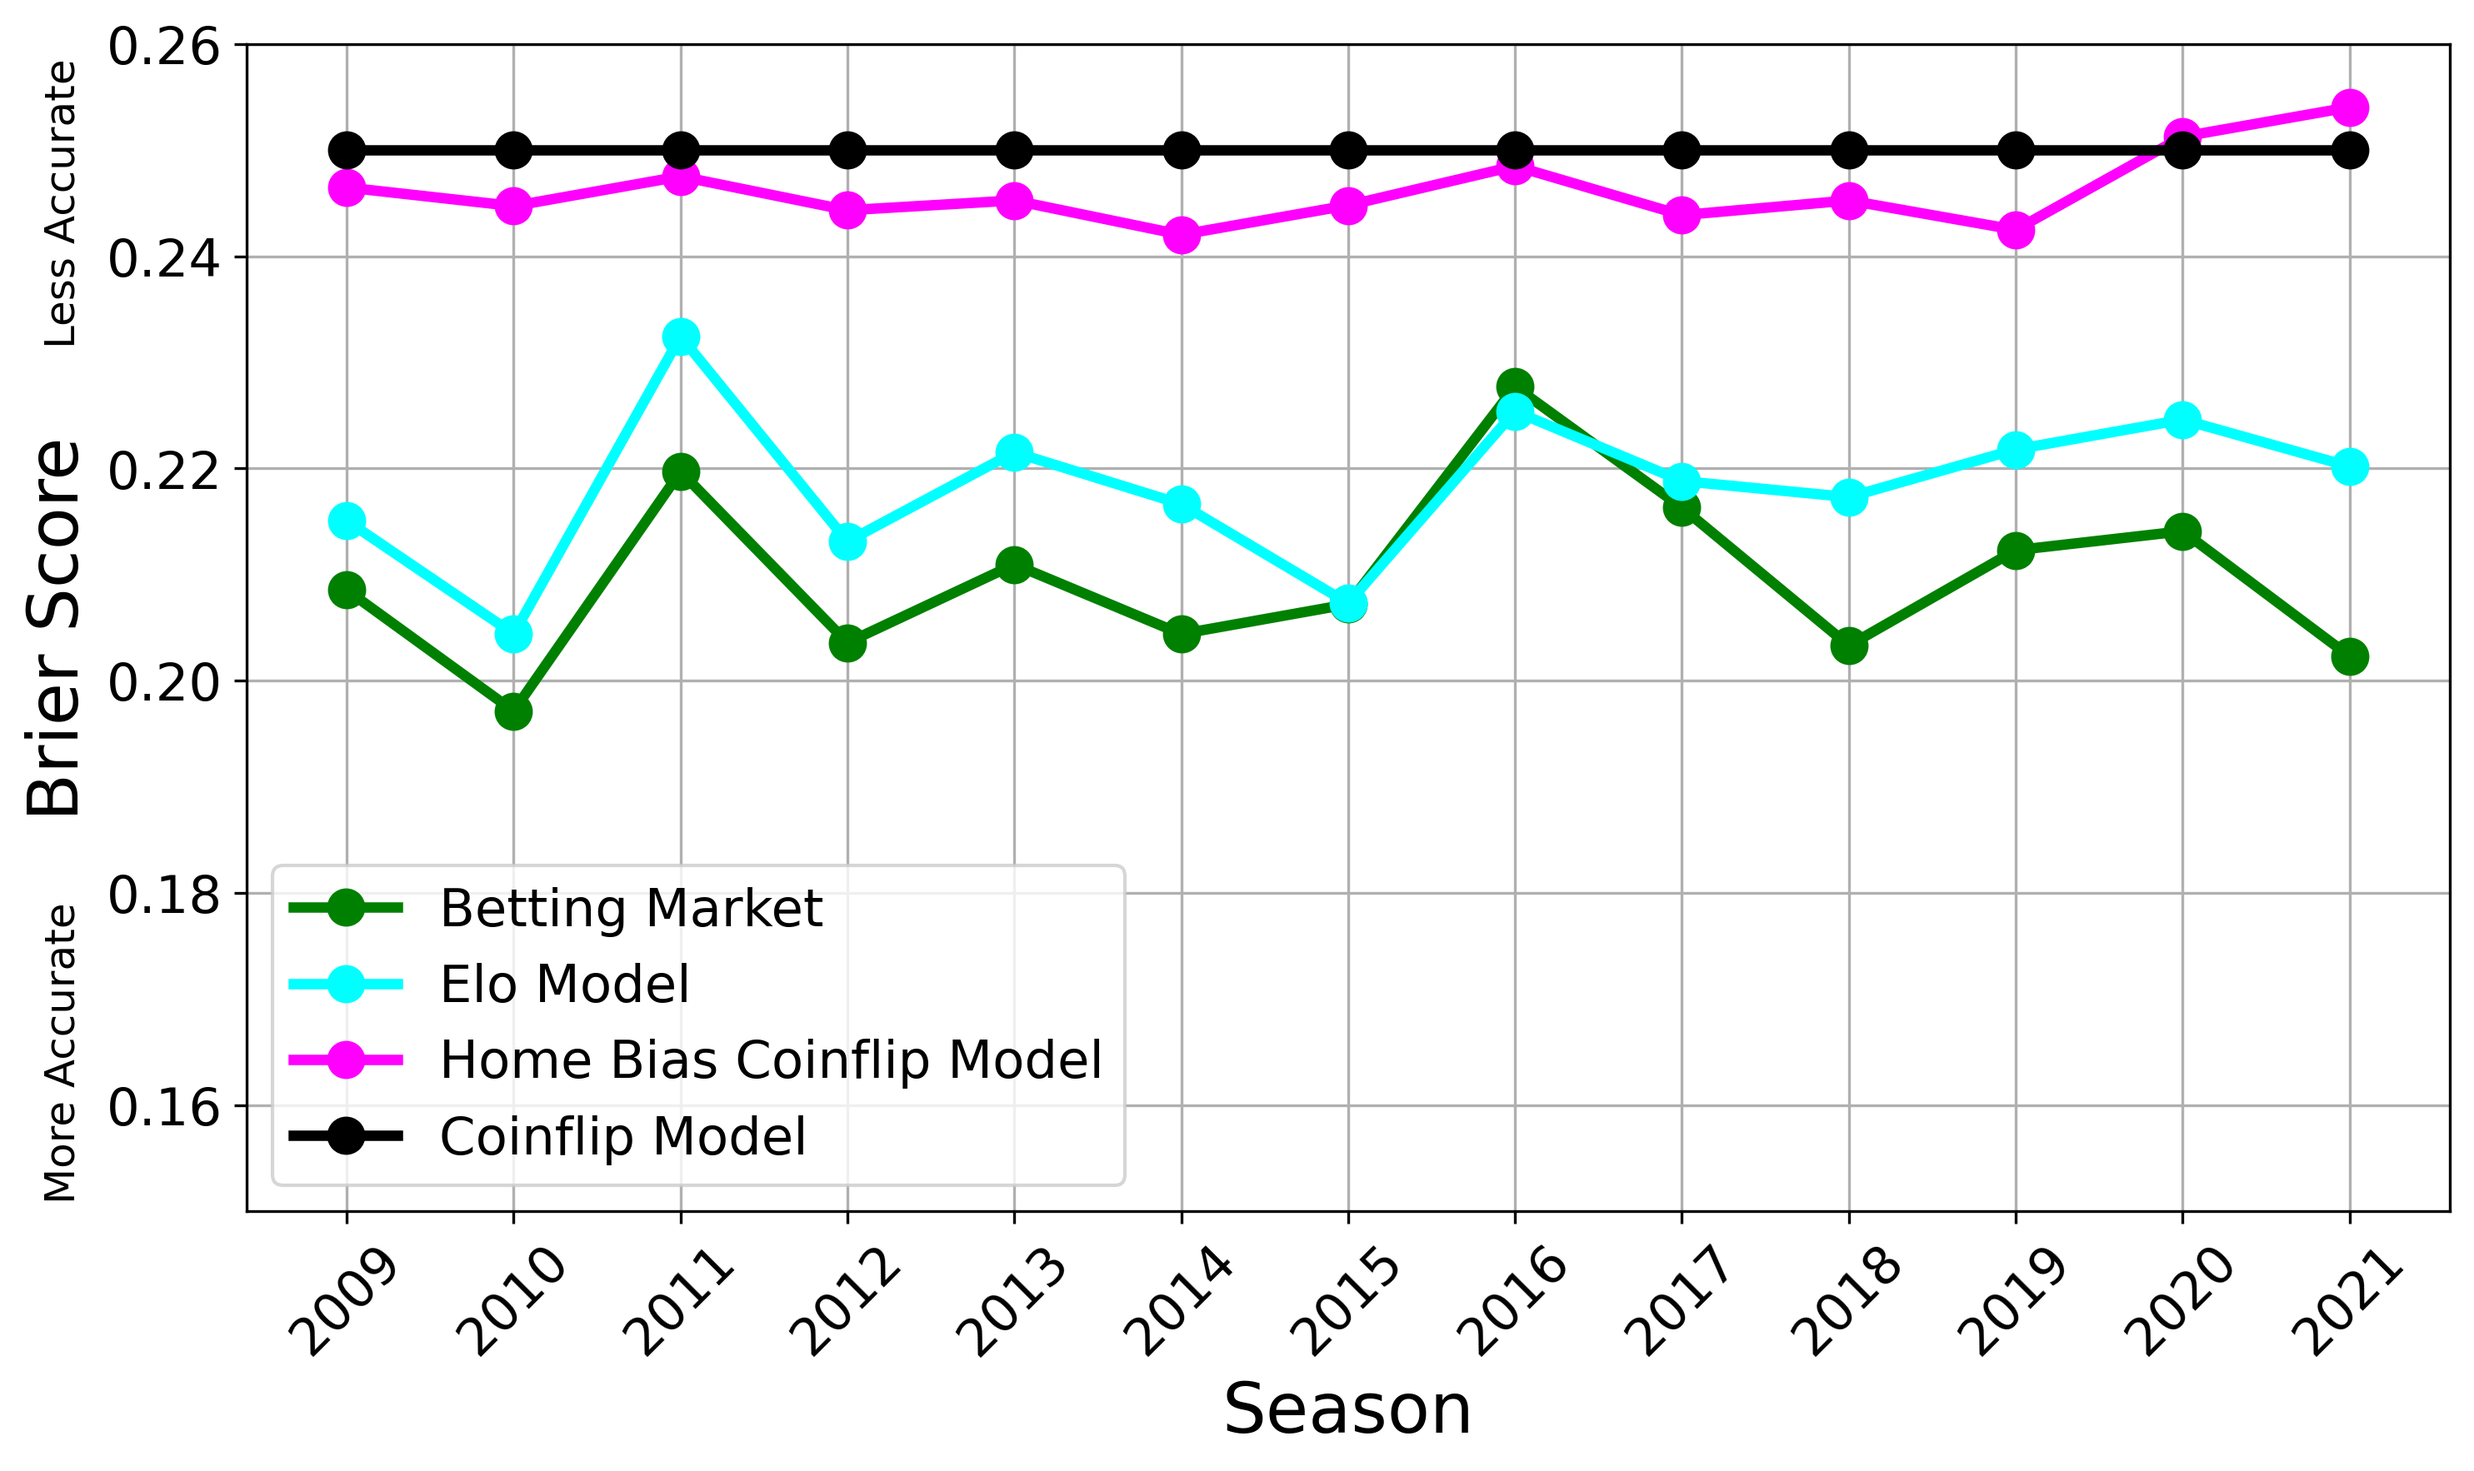
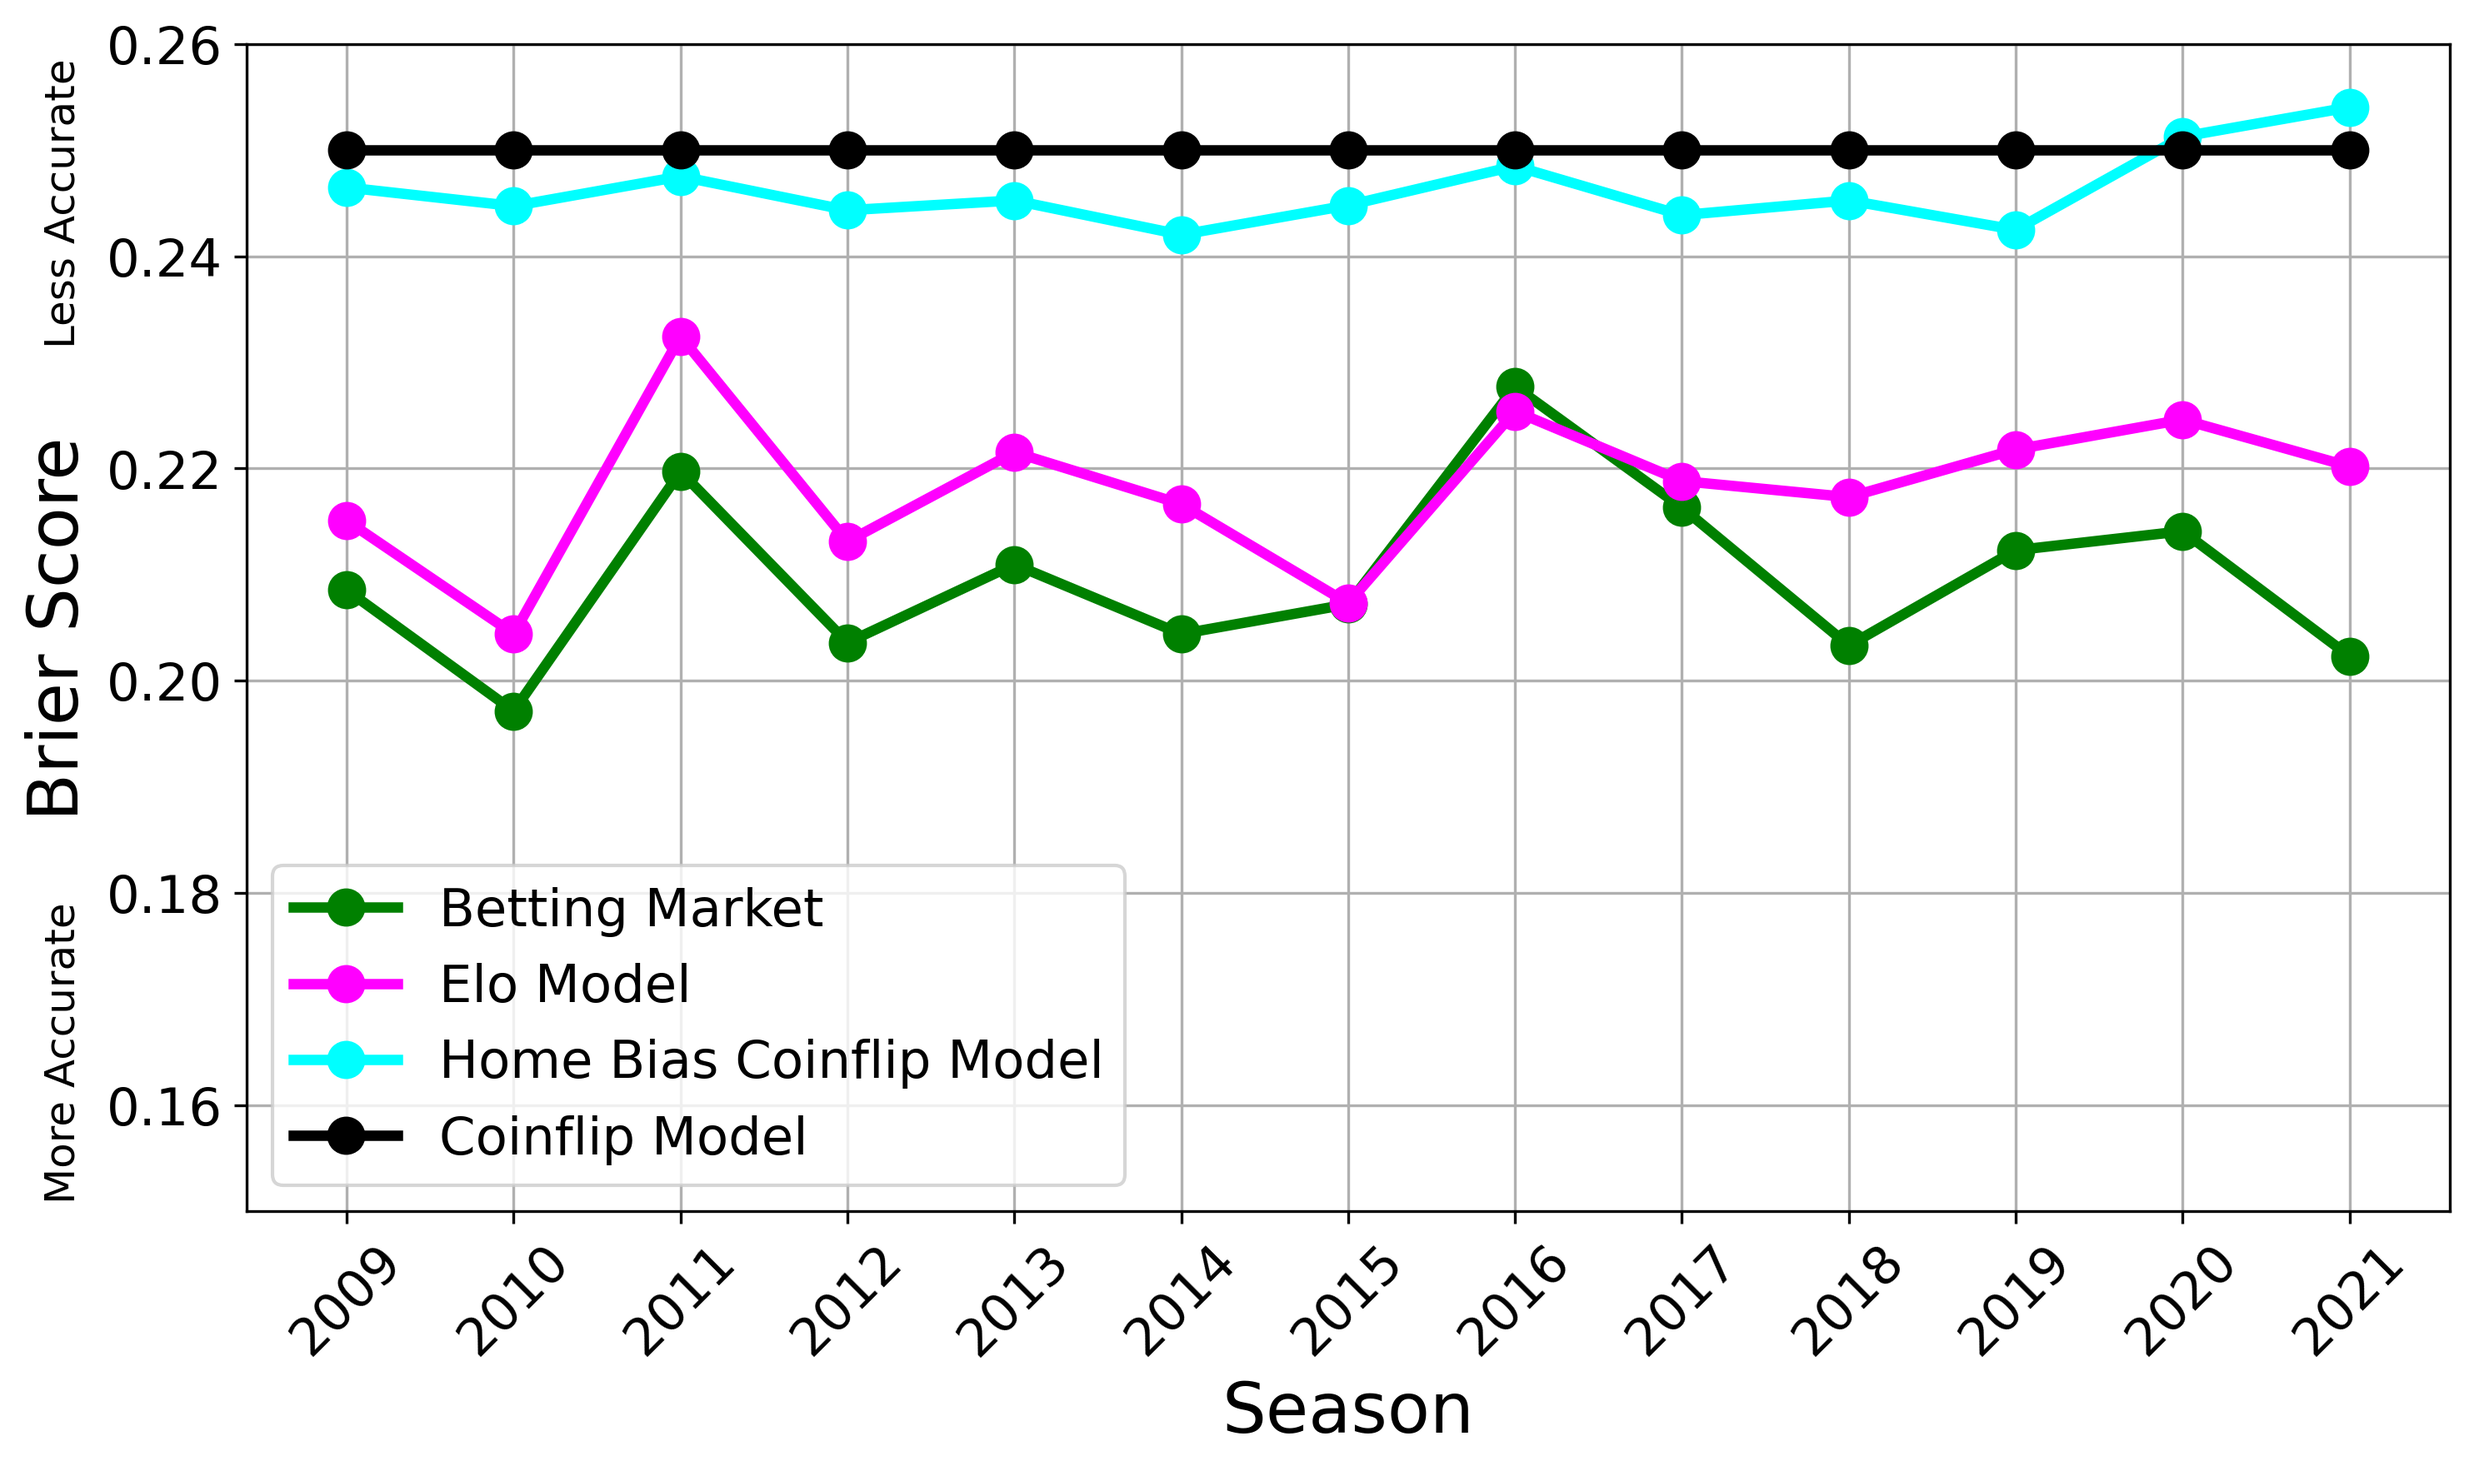
updated figures

diff --git a/src/graphing/nfl_calibration.py b/src/graphing/nfl_calibration.py
@@ -1,0 +1,31 @@
+import pandas as pd
+import matplotlib.pyplot as plt
+from sklearn.calibration import calibration_curve
+
+file_path = "processed_data/nfl_espn_combined_with_elo.csv"
+df = pd.read_csv(file_path)
+
+df = df[df[['avg_prob_1', 'elo_prob_1']].notnull().all(axis=1)]
+
+c1 = df["avg_prob_1"]
+c2 = df["elo_prob_1"]
+actual_results = df["result"]
+
+prob_true1, prob_pred1 = calibration_curve(actual_results, c1, n_bins=10, strategy='uniform')
+prob_true2, prob_pred2 = calibration_curve(actual_results, c2, n_bins=10, strategy='uniform')
+
+plt.figure(figsize=(10, 6))
+plt.plot(prob_pred1, prob_true1, marker='o', label='Betting Market Model', color='green')
+plt.plot(prob_pred2, prob_true2, marker='s', label='Elo Model', color='magenta')
+plt.plot([0, 1], [0, 1], linestyle='--', color='gray', label='Perfect Calibration')
+
+plt.xlim(0, 1)
+plt.ylim(0, 1)
+plt.xlabel('Predicted Win Probability', fontsize=20)
+plt.ylabel('Actual Win Frequency', fontsize=20)
+plt.legend(fontsize=15)
+plt.grid(True, linestyle='--', alpha=0.6)
+
+plt.tight_layout()
+plt.savefig("figures/nfl_calibration_plot.png", dpi=300, bbox_inches='tight')
+plt.show()

diff --git a/src/graphing/brier_score_by_model.py b/src/graphing/brier_score_by_model.py
@@ -11,8 +11,8 @@ season_years = results_df["season"].str.split("_").str[1]
 plt.figure(figsize=(10, 6))
 
 plt.plot(results_df["season"], results_df["moneyline_brier_score"], label="Betting Market", marker='o', color='green',linewidth=3,markersize=10)
-plt.plot(results_df["season"], results_df["elo_brier_score"], label="Elo Model", marker='o', color='cyan',linewidth=3,markersize=10)
-plt.plot(results_df["season"], results_df["baseline_brier_score"], label="Home Bias Coinflip Model", marker='o', color='magenta',linewidth=3,markersize=10)
+plt.plot(results_df["season"], results_df["elo_brier_score"], label="Elo Model", marker='o', color='magenta',linewidth=3,markersize=10)
+plt.plot(results_df["season"], results_df["baseline_brier_score"], label="Home Bias Coinflip Model", marker='o', color='cyan',linewidth=3,markersize=10)
 plt.plot(results_df["season"], [0.25]*len(results_df["season"]), label="Coinflip Model", marker='o',color='black',linewidth=3,markersize=10)
 
 plt.xticks(ticks=range(len(results_df["season"])), labels=season_years, rotation=45)
